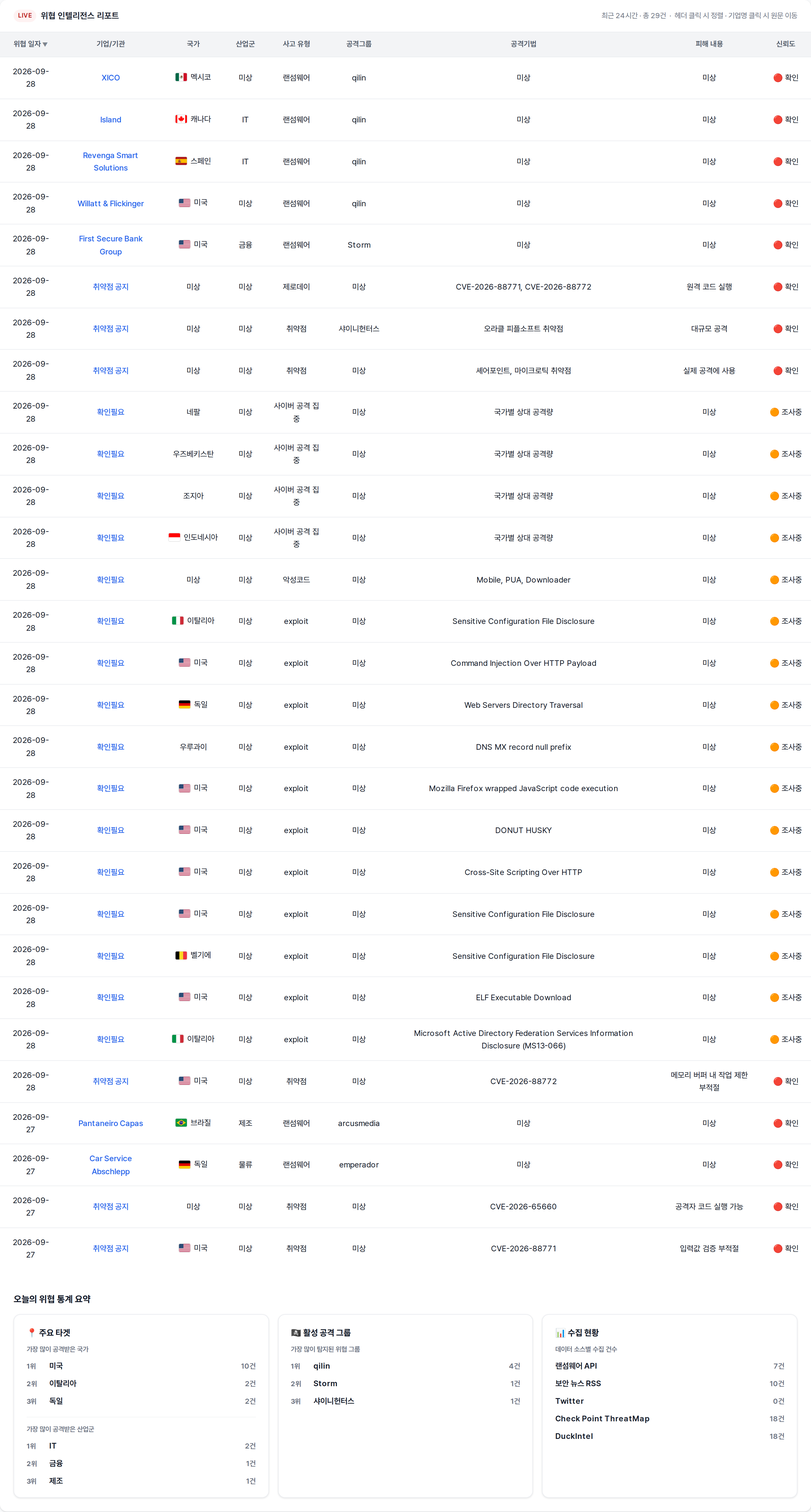
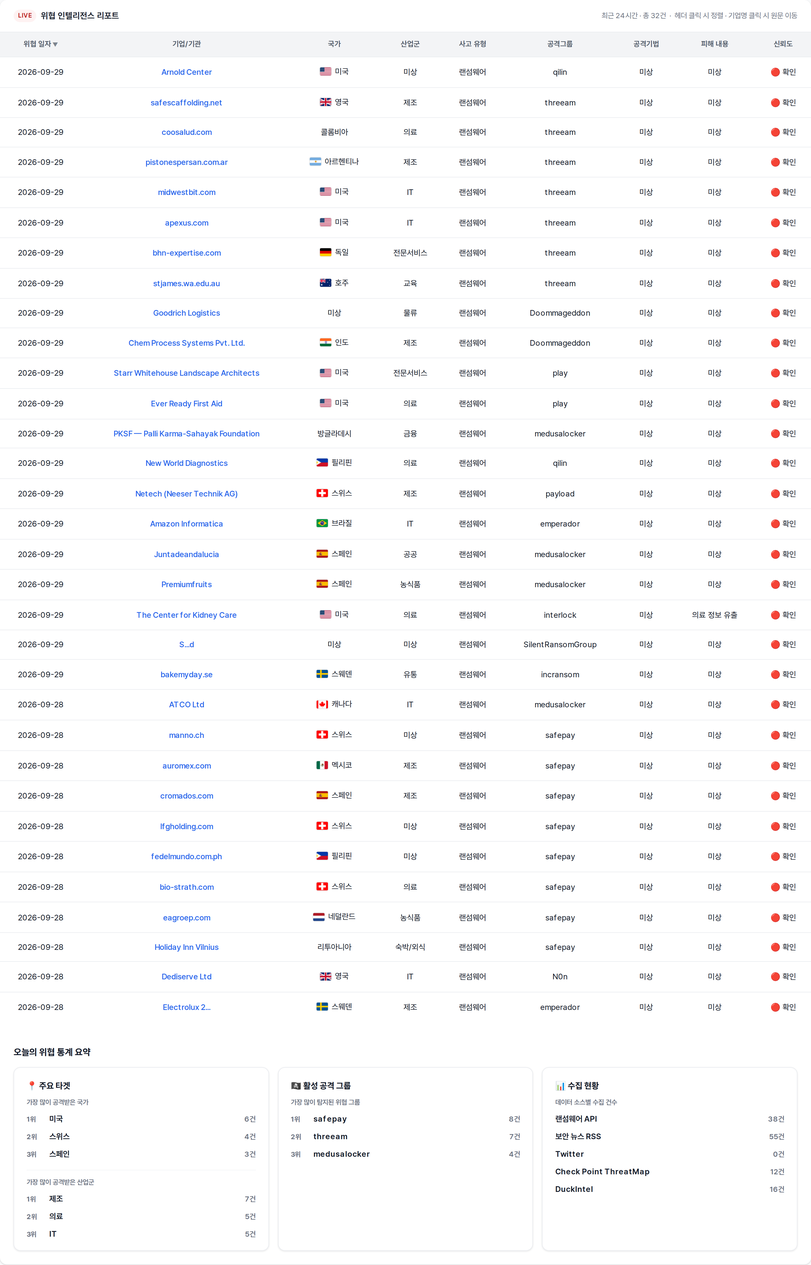
deploy: 9c533ad8fcaa3f846a31aadab046301a26f1192c

diff --git a/index.html b/index.html
@@ -3,7 +3,7 @@
 <head>
   <meta charset="UTF-8" />
   <meta name="viewport" content="width=device-width, initial-scale=1.0" />
-  <title>🚨 2026년 09월 28일 국내/해외 사이버 위협 현황</title>
+  <title>🚨 2026년 09월 29일 국내/해외 사이버 위협 현황</title>
   <link rel="preconnect" href="https://cdn.jsdelivr.net" />
   <link href="https://cdn.jsdelivr.net/gh/orioncactus/pretendard/dist/web/static/pretendard.css" rel="stylesheet" />
   <style>
@@ -253,7 +253,7 @@
 </head>
 <body>
   <div class="page-header">
-    <h1 class="page-title">🚨 2026년 09월 28일 국내/해외 사이버 위협 현황</h1>
+    <h1 class="page-title">🚨 2026년 09월 29일 국내/해외 사이버 위협 현황</h1>
   </div>
 
   <div class="dashboard">
@@ -261,41 +261,44 @@
     <div class="card-header">
       <span class="badge">LIVE</span>
       <span class="card-title">위협 인텔리전스 리포트</span>
-      <span class="card-count">최근 24시간 · 총 29건 &nbsp;·&nbsp; 헤더 클릭 시 정렬 · 기업명 클릭 시 원문 이동</span>
+      <span class="card-count">최근 24시간 · 총 32건 &nbsp;·&nbsp; 헤더 클릭 시 정렬 · 기업명 클릭 시 원문 이동</span>
     </div>
     <div class="table-wrap" style="overflow-x: auto; -webkit-overflow-scrolling: touch;">
       <table id="threat-table">
         <thead><tr><th onclick="sortTable(0)" data-col="0" class="sort-desc">위협 일자</th><th onclick="sortTable(1)" data-col="1">기업/기관</th><th onclick="sortTable(2)" data-col="2">국가</th><th onclick="sortTable(3)" data-col="3">산업군</th><th onclick="sortTable(4)" data-col="4">사고 유형</th><th onclick="sortTable(5)" data-col="5">공격그룹</th><th onclick="sortTable(6)" data-col="6">공격기법</th><th onclick="sortTable(7)" data-col="7">피해 내용</th><th onclick="sortTable(8)" data-col="8">신뢰도</th></tr></thead>
         <tbody>
-<tr><td>2026-09-28</td><td><a href="https://www.ransomware.live/id/WElDT0BxaWxpbg==" target="_blank" rel="noopener noreferrer">XICO</a></td><td class="country"><span class="country-cell"><img class="flag" src="https://flagcdn.com/w40/mx.png" alt="멕시코" width="20" height="14" />멕시코</span></td><td>미상</td><td>랜섬웨어</td><td>qilin</td><td>미상</td><td>미상</td><td>🔴 확인</td></tr>
-<tr><td>2026-09-28</td><td><a href="https://www.ransomware.live/id/SXNsYW5kQHFpbGlu" target="_blank" rel="noopener noreferrer">Island</a></td><td class="country"><span class="country-cell"><img class="flag" src="https://flagcdn.com/w40/ca.png" alt="캐나다" width="20" height="14" />캐나다</span></td><td>IT</td><td>랜섬웨어</td><td>qilin</td><td>미상</td><td>미상</td><td>🔴 확인</td></tr>
-<tr><td>2026-09-28</td><td><a href="https://www.ransomware.live/id/UmV2ZW5nYSBTbWFydCBTb2x1dGlvbnNAcWlsaW4=" target="_blank" rel="noopener noreferrer">Revenga Smart Solutions</a></td><td class="country"><span class="country-cell"><img class="flag" src="https://flagcdn.com/w40/es.png" alt="스페인" width="20" height="14" />스페인</span></td><td>IT</td><td>랜섬웨어</td><td>qilin</td><td>미상</td><td>미상</td><td>🔴 확인</td></tr>
-<tr><td>2026-09-28</td><td><a href="https://www.ransomware.live/id/V2lsbGF0dCAmIEZsaWNraW5nZXJAcWlsaW4=" target="_blank" rel="noopener noreferrer">Willatt &amp; Flickinger</a></td><td class="country"><span class="country-cell"><img class="flag" src="https://flagcdn.com/w40/us.png" alt="미국" width="20" height="14" />미국</span></td><td>미상</td><td>랜섬웨어</td><td>qilin</td><td>미상</td><td>미상</td><td>🔴 확인</td></tr>
-<tr><td>2026-09-28</td><td><a href="https://www.ransomware.live/id/Rmlyc3QgU2VjdXJlIEJhbmsgR3JvdXBAU3Rvcm0=" target="_blank" rel="noopener noreferrer">First Secure Bank Group</a></td><td class="country"><span class="country-cell"><img class="flag" src="https://flagcdn.com/w40/us.png" alt="미국" width="20" height="14" />미국</span></td><td>금융</td><td>랜섬웨어</td><td>Storm</td><td>미상</td><td>미상</td><td>🔴 확인</td></tr>
-<tr><td>2026-09-28</td><td><a href="https://www.bleepingcomputer.com/news/security/citrix-admins-warned-to-shut-down-netscalers-over-2-exploited-zero-days/" target="_blank" rel="noopener noreferrer">취약점 공지</a></td><td class="country"><span class="country-cell">미상</span></td><td>미상</td><td>제로데이</td><td>미상</td><td>CVE-2026-88771, CVE-2026-88772</td><td>원격 코드 실행</td><td>🔴 확인</td></tr>
-<tr><td>2026-09-28</td><td><a href="https://www.dailysecu.com/news/articleView.html?idxno=208614" target="_blank" rel="noopener noreferrer">취약점 공지</a></td><td class="country"><span class="country-cell">미상</span></td><td>미상</td><td>취약점</td><td>샤이니헌터스</td><td>오라클 피플소프트 취약점</td><td>대규모 공격</td><td>🔴 확인</td></tr>
-<tr><td>2026-09-28</td><td><a href="https://www.dailysecu.com/news/articleView.html?idxno=208611" target="_blank" rel="noopener noreferrer">취약점 공지</a></td><td class="country"><span class="country-cell">미상</span></td><td>미상</td><td>취약점</td><td>미상</td><td>셰어포인트, 마이크로틱 취약점</td><td>실제 공격에 사용</td><td>🔴 확인</td></tr>
-<tr><td>2026-09-28</td><td><a href="https://threatmap.checkpoint.com/" target="_blank" rel="noopener noreferrer">확인필요</a></td><td class="country"><span class="country-cell">네팔</span></td><td>미상</td><td>사이버 공격 집중</td><td>미상</td><td>국가별 상대 공격량</td><td>미상</td><td>🟠 조사중</td></tr>
-<tr><td>2026-09-28</td><td><a href="https://threatmap.checkpoint.com/" target="_blank" rel="noopener noreferrer">확인필요</a></td><td class="country"><span class="country-cell">우즈베키스탄</span></td><td>미상</td><td>사이버 공격 집중</td><td>미상</td><td>국가별 상대 공격량</td><td>미상</td><td>🟠 조사중</td></tr>
-<tr><td>2026-09-28</td><td><a href="https://threatmap.checkpoint.com/" target="_blank" rel="noopener noreferrer">확인필요</a></td><td class="country"><span class="country-cell">조지아</span></td><td>미상</td><td>사이버 공격 집중</td><td>미상</td><td>국가별 상대 공격량</td><td>미상</td><td>🟠 조사중</td></tr>
-<tr><td>2026-09-28</td><td><a href="https://threatmap.checkpoint.com/" target="_blank" rel="noopener noreferrer">확인필요</a></td><td class="country"><span class="country-cell"><img class="flag" src="https://flagcdn.com/w40/id.png" alt="인도네시아" width="20" height="14" />인도네시아</span></td><td>미상</td><td>사이버 공격 집중</td><td>미상</td><td>국가별 상대 공격량</td><td>미상</td><td>🟠 조사중</td></tr>
-<tr><td>2026-09-28</td><td><a href="https://threatmap.checkpoint.com/" target="_blank" rel="noopener noreferrer">확인필요</a></td><td class="country"><span class="country-cell">미상</span></td><td>미상</td><td>악성코드</td><td>미상</td><td>Mobile, PUA, Downloader</td><td>미상</td><td>🟠 조사중</td></tr>
-<tr><td>2026-09-28</td><td><a href="https://threatmap.checkpoint.com/" target="_blank" rel="noopener noreferrer">확인필요</a></td><td class="country"><span class="country-cell"><img class="flag" src="https://flagcdn.com/w40/it.png" alt="이탈리아" width="20" height="14" />이탈리아</span></td><td>미상</td><td>exploit</td><td>미상</td><td>Sensitive Configuration File Disclosure</td><td>미상</td><td>🟠 조사중</td></tr>
-<tr><td>2026-09-28</td><td><a href="https://threatmap.checkpoint.com/" target="_blank" rel="noopener noreferrer">확인필요</a></td><td class="country"><span class="country-cell"><img class="flag" src="https://flagcdn.com/w40/us.png" alt="미국" width="20" height="14" />미국</span></td><td>미상</td><td>exploit</td><td>미상</td><td>Command Injection Over HTTP Payload</td><td>미상</td><td>🟠 조사중</td></tr>
-<tr><td>2026-09-28</td><td><a href="https://threatmap.checkpoint.com/" target="_blank" rel="noopener noreferrer">확인필요</a></td><td class="country"><span class="country-cell"><img class="flag" src="https://flagcdn.com/w40/de.png" alt="독일" width="20" height="14" />독일</span></td><td>미상</td><td>exploit</td><td>미상</td><td>Web Servers Directory Traversal</td><td>미상</td><td>🟠 조사중</td></tr>
-<tr><td>2026-09-28</td><td><a href="https://threatmap.checkpoint.com/" target="_blank" rel="noopener noreferrer">확인필요</a></td><td class="country"><span class="country-cell">우루과이</span></td><td>미상</td><td>exploit</td><td>미상</td><td>DNS MX record null prefix</td><td>미상</td><td>🟠 조사중</td></tr>
-<tr><td>2026-09-28</td><td><a href="https://threatmap.checkpoint.com/" target="_blank" rel="noopener noreferrer">확인필요</a></td><td class="country"><span class="country-cell"><img class="flag" src="https://flagcdn.com/w40/us.png" alt="미국" width="20" height="14" />미국</span></td><td>미상</td><td>exploit</td><td>미상</td><td>Mozilla Firefox wrapped JavaScript code execution</td><td>미상</td><td>🟠 조사중</td></tr>
-<tr><td>2026-09-28</td><td><a href="https://threatmap.checkpoint.com/" target="_blank" rel="noopener noreferrer">확인필요</a></td><td class="country"><span class="country-cell"><img class="flag" src="https://flagcdn.com/w40/us.png" alt="미국" width="20" height="14" />미국</span></td><td>미상</td><td>exploit</td><td>미상</td><td>DONUT HUSKY</td><td>미상</td><td>🟠 조사중</td></tr>
-<tr><td>2026-09-28</td><td><a href="https://threatmap.checkpoint.com/" target="_blank" rel="noopener noreferrer">확인필요</a></td><td class="country"><span class="country-cell"><img class="flag" src="https://flagcdn.com/w40/us.png" alt="미국" width="20" height="14" />미국</span></td><td>미상</td><td>exploit</td><td>미상</td><td>Cross-Site Scripting Over HTTP</td><td>미상</td><td>🟠 조사중</td></tr>
-<tr><td>2026-09-28</td><td><a href="https://threatmap.checkpoint.com/" target="_blank" rel="noopener noreferrer">확인필요</a></td><td class="country"><span class="country-cell"><img class="flag" src="https://flagcdn.com/w40/us.png" alt="미국" width="20" height="14" />미국</span></td><td>미상</td><td>exploit</td><td>미상</td><td>Sensitive Configuration File Disclosure</td><td>미상</td><td>🟠 조사중</td></tr>
-<tr><td>2026-09-28</td><td><a href="https://threatmap.checkpoint.com/" target="_blank" rel="noopener noreferrer">확인필요</a></td><td class="country"><span class="country-cell"><img class="flag" src="https://flagcdn.com/w40/be.png" alt="벨기에" width="20" height="14" />벨기에</span></td><td>미상</td><td>exploit</td><td>미상</td><td>Sensitive Configuration File Disclosure</td><td>미상</td><td>🟠 조사중</td></tr>
-<tr><td>2026-09-28</td><td><a href="https://threatmap.checkpoint.com/" target="_blank" rel="noopener noreferrer">확인필요</a></td><td class="country"><span class="country-cell"><img class="flag" src="https://flagcdn.com/w40/us.png" alt="미국" width="20" height="14" />미국</span></td><td>미상</td><td>exploit</td><td>미상</td><td>ELF Executable Download</td><td>미상</td><td>🟠 조사중</td></tr>
-<tr><td>2026-09-28</td><td><a href="https://threatmap.checkpoint.com/" target="_blank" rel="noopener noreferrer">확인필요</a></td><td class="country"><span class="country-cell"><img class="flag" src="https://flagcdn.com/w40/it.png" alt="이탈리아" width="20" height="14" />이탈리아</span></td><td>미상</td><td>exploit</td><td>미상</td><td>Microsoft Active Directory Federation Services Information Disclosure (MS13-066)</td><td>미상</td><td>🟠 조사중</td></tr>
-<tr><td>2026-09-28</td><td><a href="https://nvd.nist.gov/vuln/detail/CVE-2026-88772" target="_blank" rel="noopener noreferrer">취약점 공지</a></td><td class="country"><span class="country-cell"><img class="flag" src="https://flagcdn.com/w40/us.png" alt="미국" width="20" height="14" />미국</span></td><td>미상</td><td>취약점</td><td>미상</td><td>CVE-2026-88772</td><td>메모리 버퍼 내 작업 제한 부적절</td><td>🔴 확인</td></tr>
-<tr><td>2026-09-27</td><td><a href="https://www.ransomware.live/id/UGFudGFuZWlybyBDYXBhc0BhcmN1c21lZGlh" target="_blank" rel="noopener noreferrer">Pantaneiro Capas</a></td><td class="country"><span class="country-cell"><img class="flag" src="https://flagcdn.com/w40/br.png" alt="브라질" width="20" height="14" />브라질</span></td><td>제조</td><td>랜섬웨어</td><td>arcusmedia</td><td>미상</td><td>미상</td><td>🔴 확인</td></tr>
-<tr><td>2026-09-27</td><td><a href="https://www.ransomware.live/id/Q2FyIFNlcnZpY2UgQWJzY2hsZXBwQGVtcGVyYWRvcg==" target="_blank" rel="noopener noreferrer">Car Service Abschlepp</a></td><td class="country"><span class="country-cell"><img class="flag" src="https://flagcdn.com/w40/de.png" alt="독일" width="20" height="14" />독일</span></td><td>물류</td><td>랜섬웨어</td><td>emperador</td><td>미상</td><td>미상</td><td>🔴 확인</td></tr>
-<tr><td>2026-09-27</td><td><a href="https://www.securityweek.com/microsoft-sharepoint-flaw-cve-2026-65660-now-exploited-in-attacks/" target="_blank" rel="noopener noreferrer">취약점 공지</a></td><td class="country"><span class="country-cell">미상</span></td><td>미상</td><td>취약점</td><td>미상</td><td>CVE-2026-65660</td><td>공격자 코드 실행 가능</td><td>🔴 확인</td></tr>
-<tr><td>2026-09-27</td><td><a href="https://nvd.nist.gov/vuln/detail/CVE-2026-88771" target="_blank" rel="noopener noreferrer">취약점 공지</a></td><td class="country"><span class="country-cell"><img class="flag" src="https://flagcdn.com/w40/us.png" alt="미국" width="20" height="14" />미국</span></td><td>미상</td><td>취약점</td><td>미상</td><td>CVE-2026-88771</td><td>입력값 검증 부적절</td><td>🔴 확인</td></tr>
+<tr><td>2026-09-29</td><td><a href="https://www.ransomware.live/id/QXJub2xkIENlbnRlckBxaWxpbg==" target="_blank" rel="noopener noreferrer">Arnold Center</a></td><td class="country"><span class="country-cell"><img class="flag" src="https://flagcdn.com/w40/us.png" alt="미국" width="20" height="14" />미국</span></td><td>미상</td><td>랜섬웨어</td><td>qilin</td><td>미상</td><td>미상</td><td>🔴 확인</td></tr>
+<tr><td>2026-09-29</td><td><a href="https://www.ransomware.live/id/c2FmZXNjYWZmb2xkaW5nLm5ldEB0aHJlZWFt" target="_blank" rel="noopener noreferrer">safescaffolding.net</a></td><td class="country"><span class="country-cell"><img class="flag" src="https://flagcdn.com/w40/gb.png" alt="영국" width="20" height="14" />영국</span></td><td>제조</td><td>랜섬웨어</td><td>threeam</td><td>미상</td><td>미상</td><td>🔴 확인</td></tr>
+<tr><td>2026-09-29</td><td><a href="https://www.ransomware.live/id/Y29vc2FsdWQuY29tQHRocmVlYW0=" target="_blank" rel="noopener noreferrer">coosalud.com</a></td><td class="country"><span class="country-cell">콜롬비아</span></td><td>의료</td><td>랜섬웨어</td><td>threeam</td><td>미상</td><td>미상</td><td>🔴 확인</td></tr>
+<tr><td>2026-09-29</td><td><a href="https://www.ransomware.live/id/cGlzdG9uZXNwZXJzYW4uY29tLmFyQHRocmVlYW0=" target="_blank" rel="noopener noreferrer">pistonespersan.com.ar</a></td><td class="country"><span class="country-cell"><img class="flag" src="https://flagcdn.com/w40/ar.png" alt="아르헨티나" width="20" height="14" />아르헨티나</span></td><td>제조</td><td>랜섬웨어</td><td>threeam</td><td>미상</td><td>미상</td><td>🔴 확인</td></tr>
+<tr><td>2026-09-29</td><td><a href="https://www.ransomware.live/id/bWlkd2VzdGJpdC5jb21AdGhyZWVhbQ==" target="_blank" rel="noopener noreferrer">midwestbit.com</a></td><td class="country"><span class="country-cell"><img class="flag" src="https://flagcdn.com/w40/us.png" alt="미국" width="20" height="14" />미국</span></td><td>IT</td><td>랜섬웨어</td><td>threeam</td><td>미상</td><td>미상</td><td>🔴 확인</td></tr>
+<tr><td>2026-09-29</td><td><a href="https://www.ransomware.live/id/YXBleHVzLmNvbUB0aHJlZWFt" target="_blank" rel="noopener noreferrer">apexus.com</a></td><td class="country"><span class="country-cell"><img class="flag" src="https://flagcdn.com/w40/us.png" alt="미국" width="20" height="14" />미국</span></td><td>IT</td><td>랜섬웨어</td><td>threeam</td><td>미상</td><td>미상</td><td>🔴 확인</td></tr>
+<tr><td>2026-09-29</td><td><a href="https://www.ransomware.live/id/YmhuLWV4cGVydGlzZS5jb21AdGhyZWVhbQ==" target="_blank" rel="noopener noreferrer">bhn-expertise.com</a></td><td class="country"><span class="country-cell"><img class="flag" src="https://flagcdn.com/w40/de.png" alt="독일" width="20" height="14" />독일</span></td><td>전문서비스</td><td>랜섬웨어</td><td>threeam</td><td>미상</td><td>미상</td><td>🔴 확인</td></tr>
+<tr><td>2026-09-29</td><td><a href="https://www.ransomware.live/id/c3RqYW1lcy53YS5lZHUuYXVAdGhyZWVhbQ==" target="_blank" rel="noopener noreferrer">stjames.wa.edu.au</a></td><td class="country"><span class="country-cell"><img class="flag" src="https://flagcdn.com/w40/au.png" alt="호주" width="20" height="14" />호주</span></td><td>교육</td><td>랜섬웨어</td><td>threeam</td><td>미상</td><td>미상</td><td>🔴 확인</td></tr>
+<tr><td>2026-09-29</td><td><a href="https://www.ransomware.live/id/R29vZHJpY2ggTG9naXN0aWNzQERvb21tYWdlZGRvbg==" target="_blank" rel="noopener noreferrer">Goodrich Logistics</a></td><td class="country"><span class="country-cell">미상</span></td><td>물류</td><td>랜섬웨어</td><td>Doommageddon</td><td>미상</td><td>미상</td><td>🔴 확인</td></tr>
+<tr><td>2026-09-29</td><td><a href="https://www.ransomware.live/id/Q2hlbSBQcm9jZXNzIFN5c3RlbXMgUHZ0LiBMdGQuQERvb21tYWdlZGRvbg==" target="_blank" rel="noopener noreferrer">Chem Process Systems Pvt. Ltd.</a></td><td class="country"><span class="country-cell"><img class="flag" src="https://flagcdn.com/w40/in.png" alt="인도" width="20" height="14" />인도</span></td><td>제조</td><td>랜섬웨어</td><td>Doommageddon</td><td>미상</td><td>미상</td><td>🔴 확인</td></tr>
+<tr><td>2026-09-29</td><td><a href="https://www.ransomware.live/id/U3RhcnIgV2hpdGVob3VzZSBMYW5kc2NhcGUgQXJjaGl0ZWN0c0BwbGF5" target="_blank" rel="noopener noreferrer">Starr Whitehouse Landscape Architects</a></td><td class="country"><span class="country-cell"><img class="flag" src="https://flagcdn.com/w40/us.png" alt="미국" width="20" height="14" />미국</span></td><td>전문서비스</td><td>랜섬웨어</td><td>play</td><td>미상</td><td>미상</td><td>🔴 확인</td></tr>
+<tr><td>2026-09-29</td><td><a href="https://www.ransomware.live/id/RXZlciBSZWFkeSBGaXJzdCBBaWRAcGxheQ==" target="_blank" rel="noopener noreferrer">Ever Ready First Aid</a></td><td class="country"><span class="country-cell"><img class="flag" src="https://flagcdn.com/w40/us.png" alt="미국" width="20" height="14" />미국</span></td><td>의료</td><td>랜섬웨어</td><td>play</td><td>미상</td><td>미상</td><td>🔴 확인</td></tr>
+<tr><td>2026-09-29</td><td><a href="https://www.ransomware.live/id/UEtTRiDigJQgUGFsbGkgS2FybWEtU2FoYXlhayBGb3VuZGF0aW9uQG1lZHVzYWxvY2tlcg==" target="_blank" rel="noopener noreferrer">PKSF — Palli Karma-Sahayak Foundation</a></td><td class="country"><span class="country-cell">방글라데시</span></td><td>금융</td><td>랜섬웨어</td><td>medusalocker</td><td>미상</td><td>미상</td><td>🔴 확인</td></tr>
+<tr><td>2026-09-29</td><td><a href="https://www.ransomware.live/id/TmV3IFdvcmxkIERpYWdub3N0aWNzQHFpbGlu" target="_blank" rel="noopener noreferrer">New World Diagnostics</a></td><td class="country"><span class="country-cell"><img class="flag" src="https://flagcdn.com/w40/ph.png" alt="필리핀" width="20" height="14" />필리핀</span></td><td>의료</td><td>랜섬웨어</td><td>qilin</td><td>미상</td><td>미상</td><td>🔴 확인</td></tr>
+<tr><td>2026-09-29</td><td><a href="https://www.ransomware.live/id/TmV0ZWNoIChOZWVzZXIgVGVjaG5payBBRylAcGF5bG9hZA==" target="_blank" rel="noopener noreferrer">Netech (Neeser Technik AG)</a></td><td class="country"><span class="country-cell"><img class="flag" src="https://flagcdn.com/w40/ch.png" alt="스위스" width="20" height="14" />스위스</span></td><td>제조</td><td>랜섬웨어</td><td>payload</td><td>미상</td><td>미상</td><td>🔴 확인</td></tr>
+<tr><td>2026-09-29</td><td><a href="https://www.ransomware.live/id/QW1hem9uIEluZm9ybWF0aWNhQGVtcGVyYWRvcg==" target="_blank" rel="noopener noreferrer">Amazon Informatica</a></td><td class="country"><span class="country-cell"><img class="flag" src="https://flagcdn.com/w40/br.png" alt="브라질" width="20" height="14" />브라질</span></td><td>IT</td><td>랜섬웨어</td><td>emperador</td><td>미상</td><td>미상</td><td>🔴 확인</td></tr>
+<tr><td>2026-09-29</td><td><a href="https://www.ransomware.live/id/SnVudGFkZWFuZGFsdWNpYUBtZWR1c2Fsb2NrZXI=" target="_blank" rel="noopener noreferrer">Juntadeandalucia</a></td><td class="country"><span class="country-cell"><img class="flag" src="https://flagcdn.com/w40/es.png" alt="스페인" width="20" height="14" />스페인</span></td><td>공공</td><td>랜섬웨어</td><td>medusalocker</td><td>미상</td><td>미상</td><td>🔴 확인</td></tr>
+<tr><td>2026-09-29</td><td><a href="https://www.ransomware.live/id/UHJlbWl1bWZydWl0c0BtZWR1c2Fsb2NrZXI=" target="_blank" rel="noopener noreferrer">Premiumfruits</a></td><td class="country"><span class="country-cell"><img class="flag" src="https://flagcdn.com/w40/es.png" alt="스페인" width="20" height="14" />스페인</span></td><td>농식품</td><td>랜섬웨어</td><td>medusalocker</td><td>미상</td><td>미상</td><td>🔴 확인</td></tr>
+<tr><td>2026-09-29</td><td><a href="https://www.ransomware.live/id/VGhlIENlbnRlciBmb3IgS2lkbmV5IENhcmVAaW50ZXJsb2Nr" target="_blank" rel="noopener noreferrer">The Center for Kidney Care</a></td><td class="country"><span class="country-cell"><img class="flag" src="https://flagcdn.com/w40/us.png" alt="미국" width="20" height="14" />미국</span></td><td>의료</td><td>랜섬웨어</td><td>interlock</td><td>미상</td><td>의료 정보 유출</td><td>🔴 확인</td></tr>
+<tr><td>2026-09-29</td><td><a href="https://www.ransomware.live/id/Uy4uLmRAU2lsZW50UmFuc29tR3JvdXA=" target="_blank" rel="noopener noreferrer">S...d</a></td><td class="country"><span class="country-cell">미상</span></td><td>미상</td><td>랜섬웨어</td><td>SilentRansomGroup</td><td>미상</td><td>미상</td><td>🔴 확인</td></tr>
+<tr><td>2026-09-29</td><td><a href="https://www.ransomware.live/id/YmFrZW15ZGF5LnNlQGluY3JhbnNvbQ==" target="_blank" rel="noopener noreferrer">bakemyday.se</a></td><td class="country"><span class="country-cell"><img class="flag" src="https://flagcdn.com/w40/se.png" alt="스웨덴" width="20" height="14" />스웨덴</span></td><td>유통</td><td>랜섬웨어</td><td>incransom</td><td>미상</td><td>미상</td><td>🔴 확인</td></tr>
+<tr><td>2026-09-28</td><td><a href="https://www.ransomware.live/id/QVRDTyBMdGRAbWVkdXNhbG9ja2Vy" target="_blank" rel="noopener noreferrer">ATCO Ltd</a></td><td class="country"><span class="country-cell"><img class="flag" src="https://flagcdn.com/w40/ca.png" alt="캐나다" width="20" height="14" />캐나다</span></td><td>IT</td><td>랜섬웨어</td><td>medusalocker</td><td>미상</td><td>미상</td><td>🔴 확인</td></tr>
+<tr><td>2026-09-28</td><td><a href="https://www.ransomware.live/id/bWFubm8uY2hAc2FmZXBheQ==" target="_blank" rel="noopener noreferrer">manno.ch</a></td><td class="country"><span class="country-cell"><img class="flag" src="https://flagcdn.com/w40/ch.png" alt="스위스" width="20" height="14" />스위스</span></td><td>미상</td><td>랜섬웨어</td><td>safepay</td><td>미상</td><td>미상</td><td>🔴 확인</td></tr>
+<tr><td>2026-09-28</td><td><a href="https://www.ransomware.live/id/YXVyb21leC5jb21Ac2FmZXBheQ==" target="_blank" rel="noopener noreferrer">auromex.com</a></td><td class="country"><span class="country-cell"><img class="flag" src="https://flagcdn.com/w40/mx.png" alt="멕시코" width="20" height="14" />멕시코</span></td><td>제조</td><td>랜섬웨어</td><td>safepay</td><td>미상</td><td>미상</td><td>🔴 확인</td></tr>
+<tr><td>2026-09-28</td><td><a href="https://www.ransomware.live/id/Y3JvbWFkb3MuY29tQHNhZmVwYXk=" target="_blank" rel="noopener noreferrer">cromados.com</a></td><td class="country"><span class="country-cell"><img class="flag" src="https://flagcdn.com/w40/es.png" alt="스페인" width="20" height="14" />스페인</span></td><td>제조</td><td>랜섬웨어</td><td>safepay</td><td>미상</td><td>미상</td><td>🔴 확인</td></tr>
+<tr><td>2026-09-28</td><td><a href="https://www.ransomware.live/id/bGZnaG9sZGluZy5jb21Ac2FmZXBheQ==" target="_blank" rel="noopener noreferrer">lfgholding.com</a></td><td class="country"><span class="country-cell"><img class="flag" src="https://flagcdn.com/w40/ch.png" alt="스위스" width="20" height="14" />스위스</span></td><td>미상</td><td>랜섬웨어</td><td>safepay</td><td>미상</td><td>미상</td><td>🔴 확인</td></tr>
+<tr><td>2026-09-28</td><td><a href="https://www.ransomware.live/id/ZmVkZWxtdW5kby5jb20ucGhAc2FmZXBheQ==" target="_blank" rel="noopener noreferrer">fedelmundo.com.ph</a></td><td class="country"><span class="country-cell"><img class="flag" src="https://flagcdn.com/w40/ph.png" alt="필리핀" width="20" height="14" />필리핀</span></td><td>미상</td><td>랜섬웨어</td><td>safepay</td><td>미상</td><td>미상</td><td>🔴 확인</td></tr>
+<tr><td>2026-09-28</td><td><a href="https://www.ransomware.live/id/YmlvLXN0cmF0aC5jb21Ac2FmZXBheQ==" target="_blank" rel="noopener noreferrer">bio-strath.com</a></td><td class="country"><span class="country-cell"><img class="flag" src="https://flagcdn.com/w40/ch.png" alt="스위스" width="20" height="14" />스위스</span></td><td>의료</td><td>랜섬웨어</td><td>safepay</td><td>미상</td><td>미상</td><td>🔴 확인</td></tr>
+<tr><td>2026-09-28</td><td><a href="https://www.ransomware.live/id/ZWFncm9lcC5jb21Ac2FmZXBheQ==" target="_blank" rel="noopener noreferrer">eagroep.com</a></td><td class="country"><span class="country-cell"><img class="flag" src="https://flagcdn.com/w40/nl.png" alt="네덜란드" width="20" height="14" />네덜란드</span></td><td>농식품</td><td>랜섬웨어</td><td>safepay</td><td>미상</td><td>미상</td><td>🔴 확인</td></tr>
+<tr><td>2026-09-28</td><td><a href="https://www.ransomware.live/id/SG9saWRheSBJbm4gVmlsbml1c0BzYWZlcGF5" target="_blank" rel="noopener noreferrer">Holiday Inn Vilnius</a></td><td class="country"><span class="country-cell">리투아니아</span></td><td>숙박/외식</td><td>랜섬웨어</td><td>safepay</td><td>미상</td><td>미상</td><td>🔴 확인</td></tr>
+<tr><td>2026-09-28</td><td><a href="https://www.ransomware.live/id/RGVkaXNlcnZlIEx0ZEBOMG4=" target="_blank" rel="noopener noreferrer">Dediserve Ltd</a></td><td class="country"><span class="country-cell"><img class="flag" src="https://flagcdn.com/w40/gb.png" alt="영국" width="20" height="14" />영국</span></td><td>IT</td><td>랜섬웨어</td><td>N0n</td><td>미상</td><td>미상</td><td>🔴 확인</td></tr>
+<tr><td>2026-09-28</td><td><a href="https://www.ransomware.live/id/RWxlY3Ryb2x1eCAyLi4uQGVtcGVyYWRvcg==" target="_blank" rel="noopener noreferrer">Electrolux 2...</a></td><td class="country"><span class="country-cell"><img class="flag" src="https://flagcdn.com/w40/se.png" alt="스웨덴" width="20" height="14" />스웨덴</span></td><td>제조</td><td>랜섬웨어</td><td>emperador</td><td>미상</td><td>미상</td><td>🔴 확인</td></tr>
         </tbody>
       </table>
     </div>
@@ -306,19 +309,19 @@
       <article class="stat-card">
         <h3 class="stat-title">📍 주요 타겟</h3>
         <p class="stat-subtitle">가장 많이 공격받은 국가</p>
-        <ol class="stat-list"><li><span class="stat-rank">1위</span><span class="stat-name">미국</span><span class="stat-count">10건</span></li><li><span class="stat-rank">2위</span><span class="stat-name">이탈리아</span><span class="stat-count">2건</span></li><li><span class="stat-rank">3위</span><span class="stat-name">독일</span><span class="stat-count">2건</span></li></ol>
+        <ol class="stat-list"><li><span class="stat-rank">1위</span><span class="stat-name">미국</span><span class="stat-count">6건</span></li><li><span class="stat-rank">2위</span><span class="stat-name">스위스</span><span class="stat-count">4건</span></li><li><span class="stat-rank">3위</span><span class="stat-name">스페인</span><span class="stat-count">3건</span></li></ol>
         <p class="stat-subtitle stat-subtitle-gap">가장 많이 공격받은 산업군</p>
-        <ol class="stat-list"><li><span class="stat-rank">1위</span><span class="stat-name">IT</span><span class="stat-count">2건</span></li><li><span class="stat-rank">2위</span><span class="stat-name">금융</span><span class="stat-count">1건</span></li><li><span class="stat-rank">3위</span><span class="stat-name">제조</span><span class="stat-count">1건</span></li></ol>
+        <ol class="stat-list"><li><span class="stat-rank">1위</span><span class="stat-name">제조</span><span class="stat-count">7건</span></li><li><span class="stat-rank">2위</span><span class="stat-name">의료</span><span class="stat-count">5건</span></li><li><span class="stat-rank">3위</span><span class="stat-name">IT</span><span class="stat-count">5건</span></li></ol>
       </article>
       <article class="stat-card">
         <h3 class="stat-title">🏴☠ 활성 공격 그룹</h3>
         <p class="stat-subtitle">가장 많이 탐지된 위협 그룹</p>
-        <ol class="stat-list"><li><span class="stat-rank">1위</span><span class="stat-name">qilin</span><span class="stat-count">4건</span></li><li><span class="stat-rank">2위</span><span class="stat-name">Storm</span><span class="stat-count">1건</span></li><li><span class="stat-rank">3위</span><span class="stat-name">샤이니헌터스</span><span class="stat-count">1건</span></li></ol>
+        <ol class="stat-list"><li><span class="stat-rank">1위</span><span class="stat-name">safepay</span><span class="stat-count">8건</span></li><li><span class="stat-rank">2위</span><span class="stat-name">threeam</span><span class="stat-count">7건</span></li><li><span class="stat-rank">3위</span><span class="stat-name">medusalocker</span><span class="stat-count">4건</span></li></ol>
       </article>
       <article class="stat-card">
         <h3 class="stat-title">📊 수집 현황</h3>
         <p class="stat-subtitle">데이터 소스별 수집 건수</p>
-        <ul class="stat-list stat-sources"><li><span class="stat-name">랜섬웨어 API</span><span class="stat-count">7건</span></li><li><span class="stat-name">보안 뉴스 RSS</span><span class="stat-count">10건</span></li><li><span class="stat-name">Twitter</span><span class="stat-count">0건</span></li><li><span class="stat-name">Check Point ThreatMap</span><span class="stat-count">18건</span></li><li><span class="stat-name">DuckIntel</span><span class="stat-count">18건</span></li></ul>
+        <ul class="stat-list stat-sources"><li><span class="stat-name">랜섬웨어 API</span><span class="stat-count">38건</span></li><li><span class="stat-name">보안 뉴스 RSS</span><span class="stat-count">55건</span></li><li><span class="stat-name">Twitter</span><span class="stat-count">0건</span></li><li><span class="stat-name">Check Point ThreatMap</span><span class="stat-count">12건</span></li><li><span class="stat-name">DuckIntel</span><span class="stat-count">16건</span></li></ul>
       </article>
     </div>
   </section>
